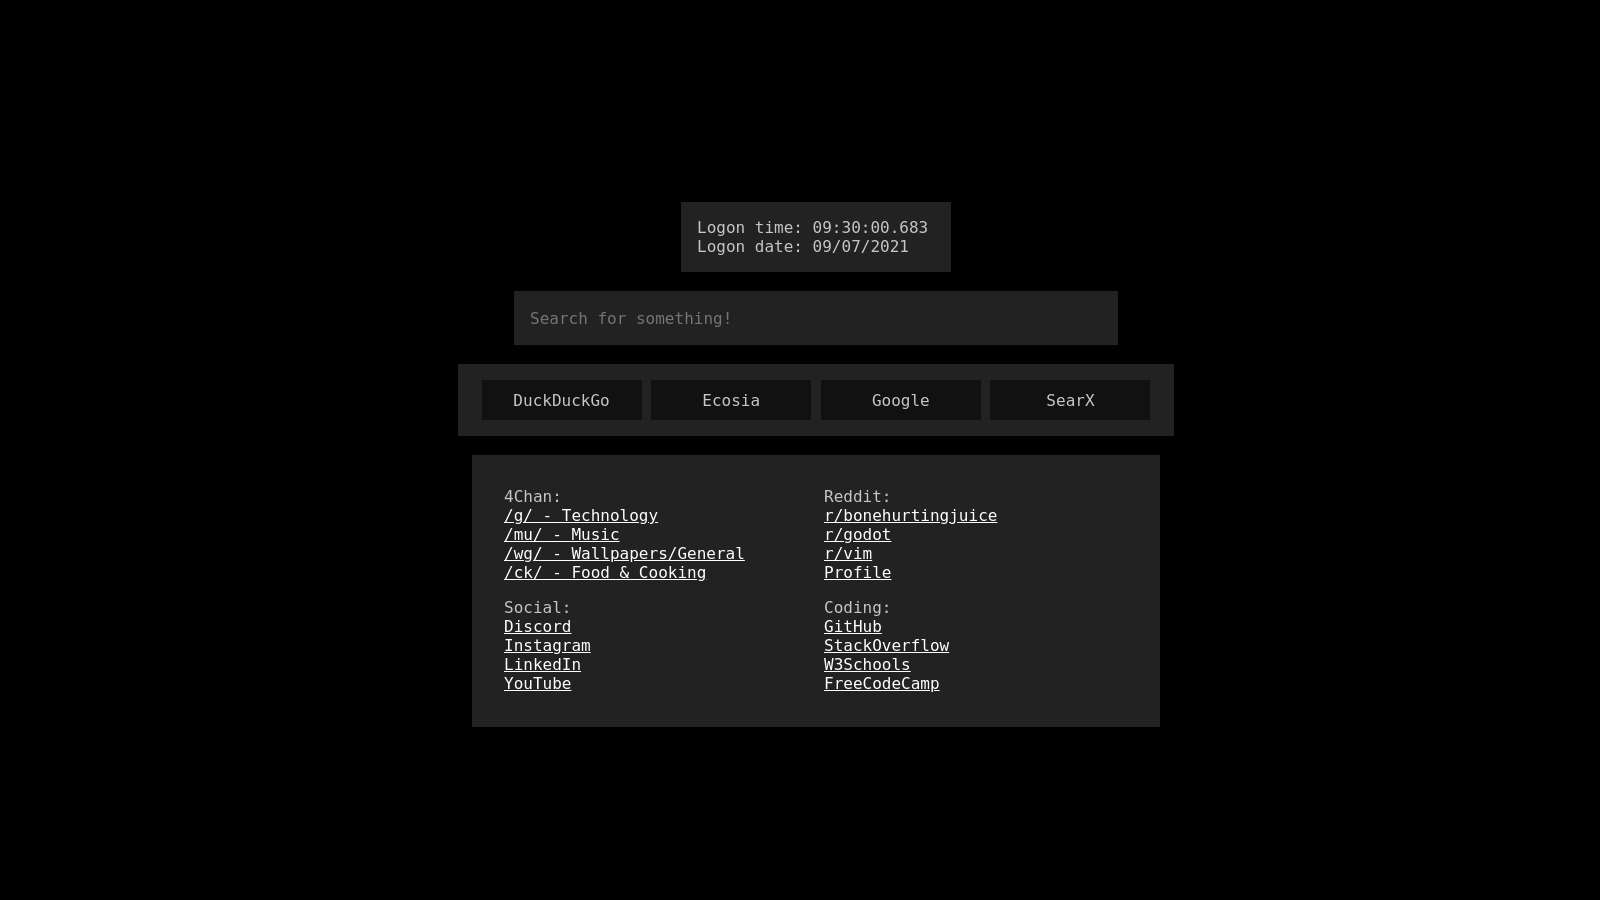
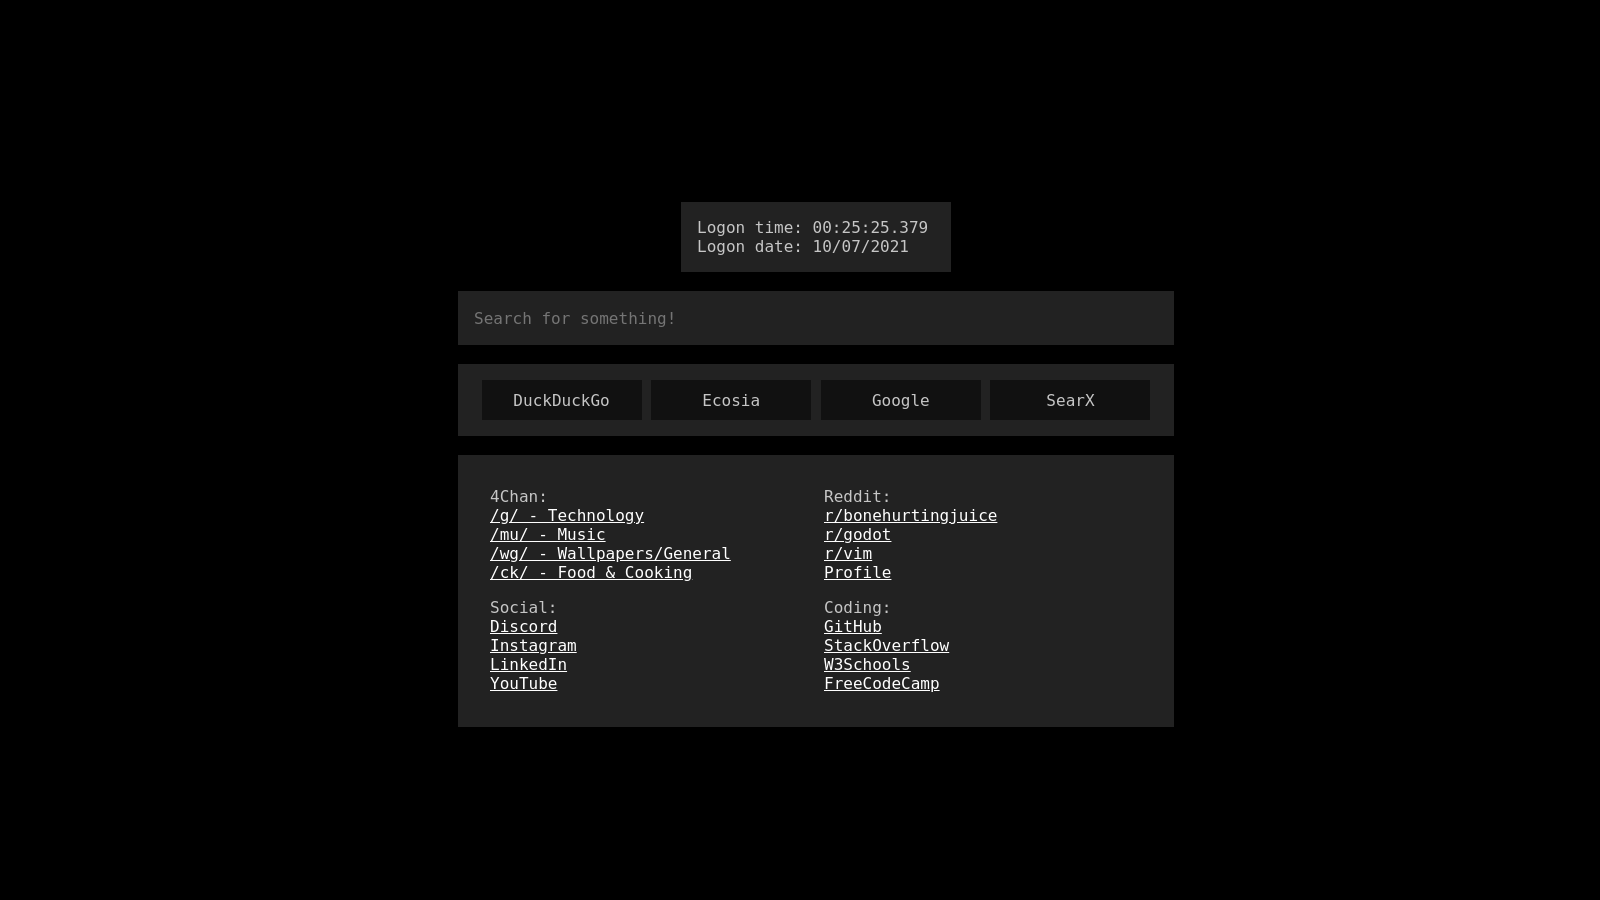
Made divs equal width

diff --git a/pages/truedark.html b/pages/truedark.html
@@ -33,7 +33,7 @@
 		input {
 			border-style: none;
 			outline: none;
-			width: 572px;
+			width: 684px;
 			height: 22px;
 		}
 
@@ -48,7 +48,7 @@
 
 		div.logon-time { width: 238px; height: 38px; text-align: left; }
 		div.search-opts { width: 684px; height: 40px; }
-		div.href-container { width: 656px; height: 240px; }
+		div.href-container { width: 684px; height: 240px; }
 
 		div.master {
 			background: none;
